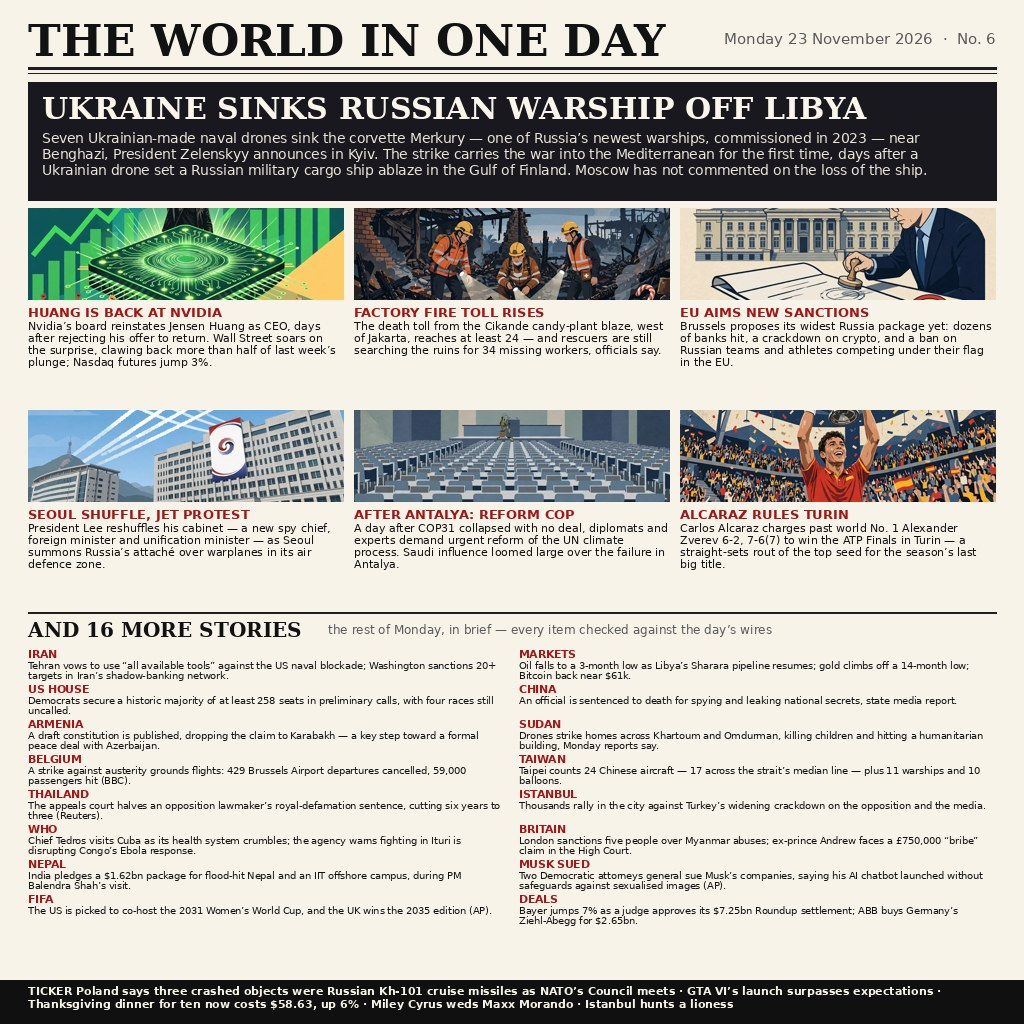
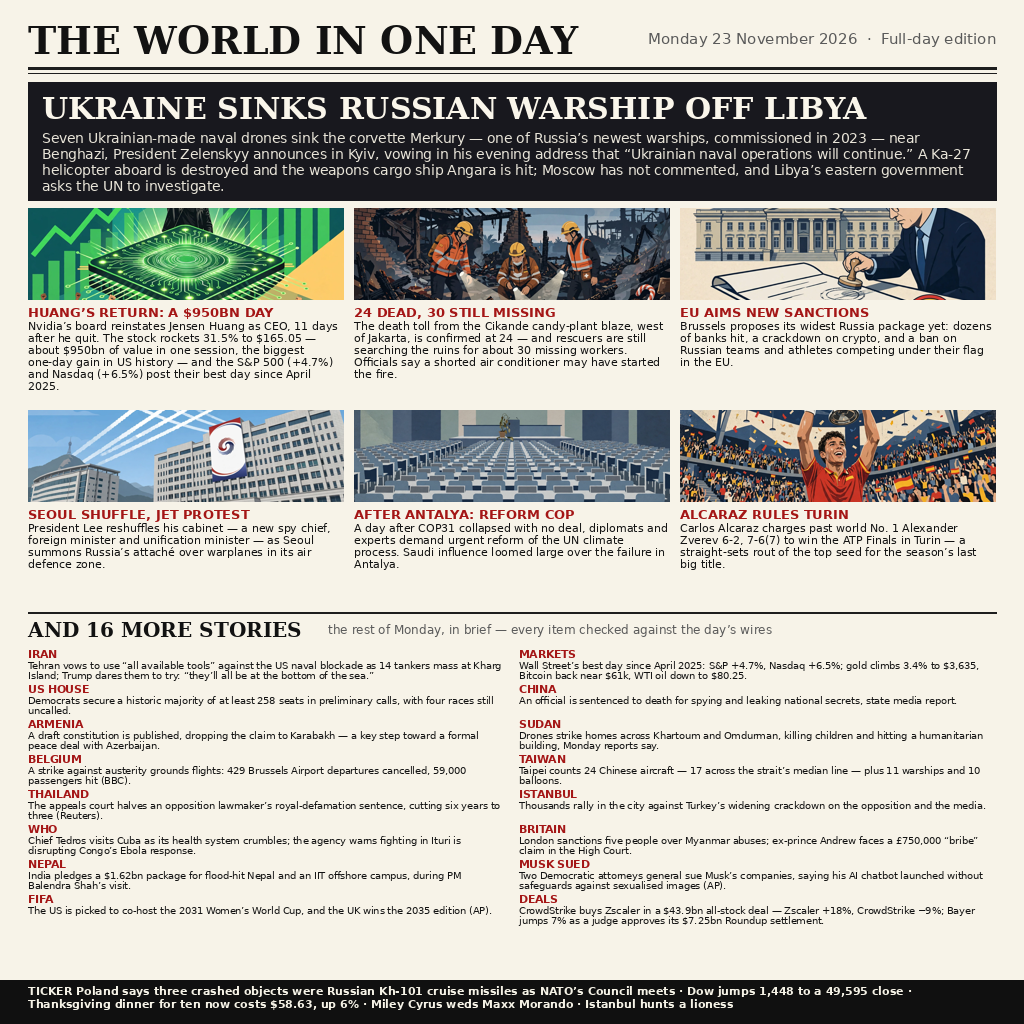
Full-day edition v2: market closes, evening Merkury updates, corrected factory toll

diff --git a/main.ts b/main.ts
@@ -1,15 +1,20 @@
 // "The World in One Day" — my entry for make.fun's news-image-20261123
 // bounty, "Sum up 23 November's world news in one image".
 //
-// The poster shipped next to this file (entry.png — JPEG bytes under a
-// .png name; the gate reads magic bytes, not names) compresses Monday
-// 23 November 2026 into one 1024x1024 front page of 28 stories: a lead on
-// Ukraine's naval drones sinking the Russian corvette Merkury off Libya,
-// six illustrated cards (Nvidia's board reinstating Jensen Huang, the
-// Cikande factory fire toll reaching 24, the EU's new Russia sanctions,
-// Seoul's cabinet reshuffle, the COP31 reform fallout, Alcaraz's ATP
-// Finals title), sixteen one-line briefs and a five-item ticker. The
-// count follows the series' verified sweet spot: the day before, a
+// The poster shipped next to this file (entry.png — PNG bytes, 1024x1024)
+// compresses Monday 23 November 2026 into one 1024x1024 front page of 28
+// stories: a lead on Ukraine's naval drones sinking the Russian corvette
+// Merkury off Libya, with Zelenskyy's evening vow that naval operations
+// will continue, the Ka-27 destroyed aboard and the Angara hit; six
+// illustrated cards (Nvidia's board reinstating Jensen Huang and the
+// record +31.5% close to $165.05, ~$950bn added in one session; the
+// Cikande factory fire toll confirmed at 24 with about 30 still missing;
+// the EU's new Russia sanctions; Seoul's cabinet reshuffle; the COP31
+// reform fallout; Alcaraz's ATP Finals title), sixteen one-line briefs
+// and a five-item ticker. This is the full-day edition (v2): every Monday
+// item re-checked against the late wires, with the market closes, the
+// 14-tanker Kharg Island standoff and the CrowdStrike–Zscaler deal added.
+// The count follows the series' verified sweet spot: the day before, a
 // 27-story edition outscored a denser 33-story one.
 //
 // All this program does is copy the poster into the output directory,
@@ -83,11 +88,15 @@ writeFileSync(target, poster);
 
 // Read the written file back and compare it with the shipped poster:
 // a short or corrupted write must fail loudly here rather than hand the
-// grader a different image from the one that was checked above.
+// grader a different image from the one that was checked above. Three
+// sample points (start, middle, end) catch truncation and mid-file
+// corruption that a length check alone would miss.
 const written = readFileSync(target);
+const mid = Math.floor(poster.length / 2);
 if (
   written.length !== poster.length ||
   written[0] !== poster[0] ||
+  written[mid] !== poster[mid] ||
   written[written.length - 1] !== poster[poster.length - 1]
 ) {
   refuse(`write verification failed for ${target}`);

diff --git a/README.md b/README.md
@@ -4,7 +4,7 @@
 [![rank](https://make.fun/badge/news-image-20261123/lkapi0819-cli/news-image-20261123/rank.svg)](https://make.fun/bounty/news-image-20261123/leaderboard?utm_source=github&utm_medium=readme&utm_campaign=news-image-20261123)
 [![reward](https://make.fun/badge/news-image-20261123/lkapi0819-cli/news-image-20261123/reward.svg)](https://make.fun/bounty/news-image-20261123?utm_source=github&utm_medium=readme&utm_campaign=news-image-20261123)
 
-"The World in One Day" — a high-density front-page poster summing up Monday 23 November 2026 in one 1024×1024 image with 28 stories: Ukraine sinking Russia's corvette Merkury off Benghazi with seven naval drones (the war's first Mediterranean strike, announced by Zelenskyy on Monday), Nvidia's board reinstating Jensen Huang as CEO and Wall Street clawing back more than half of last week's plunge, the Cikande candy-factory fire toll rising to at least 24 dead with 34 still missing, the EU's widest proposed Russia sanctions package yet (dozens of banks, crypto, a flag ban for Russian athletes), President Lee's cabinet reshuffle in Seoul alongside a protest over Russian warplanes in Korea's air defence zone, the reform demands a day after COP31's collapse in Antalya, and Carlos Alcaraz beating world No. 1 Alexander Zverev 6-2, 7-6(7) for the ATP Finals title — plus 16 more briefs (Iran's blockade vow and the US shadow-banking sanctions, the Democrats' 258-seat House majority, Armenia's draft constitution, Belgium's strike-grounded flights, the WHO chief in Cuba, India's $1.62bn Nepal package, FIFA's 2031/2035 Women's World Cup hosts, oil's three-month low and Bitcoin's rebound, China's death sentence for a spying official, Sudan's drone strikes, Taiwan's count of Chinese aircraft, Istanbul's rally and escaped lioness, the Musk chatbot lawsuits, and the Bayer and ABB deals) and a five-item ticker. The poster was composed from six AI-illustrated panels with a Python/Pillow layout script; `main.ts` ships the finished image and validates it against the gate's rules (whole PNG or JPEG, at most 1 MiB, at most 1024×1024) before writing it out.
+"The World in One Day" — a high-density front-page poster summing up Monday 23 November 2026 in one 1024×1024 image with 28 stories: Ukraine sinking Russia's corvette Merkury off Benghazi with seven naval drones (the war's first Mediterranean strike, announced by Zelenskyy on Monday, who vowed in his evening address that naval operations will continue; a Ka-27 helicopter destroyed aboard, the weapons cargo ship Angara hit, Moscow silent), Nvidia's board reinstating Jensen Huang as CEO and the stock rocketing 31.5% to $165.05 — about $950bn of value in a single session, the biggest one-day gain in US history, with the S&P 500 (+4.7%) and Nasdaq (+6.5%) posting their best day since April 2025 — the Cikande candy-factory fire toll confirmed at 24 dead with about 30 still missing, the EU's widest proposed Russia sanctions package yet (dozens of banks, crypto, a flag ban for Russian athletes), President Lee's cabinet reshuffle in Seoul alongside a protest over Russian warplanes in Korea's air defence zone, the reform demands a day after COP31's collapse in Antalya, and Carlos Alcaraz beating world No. 1 Alexander Zverev 6-2, 7-6(7) for the ATP Finals title — plus 16 more briefs (Iran massing 14 tankers at Kharg Island to test the US blockade, the Democrats' 258-seat House majority, Armenia's draft constitution, Belgium's strike-grounded flights, the WHO chief in Cuba, India's $1.62bn Nepal package, FIFA's 2031/2035 Women's World Cup hosts, the market closes, China's death sentence for a spying official, Sudan's drone strikes, Taiwan's count of Chinese aircraft, Istanbul's rally and escaped lioness, the Musk chatbot lawsuits, and the CrowdStrike–Zscaler deal) and a five-item ticker led by the Dow's 1,448-point jump to 49,595. This is the full-day edition (v2): every item re-checked against Monday's late wires, with the market closes and the evening developments added at the verified 28-story sweet spot. The poster was composed from six AI-illustrated panels with a Python/Pillow layout script; `main.ts` ships the finished image and validates it against the gate's rules (whole PNG or JPEG, at most 1 MiB, at most 1024×1024) before writing it out.
 
 ## Run it
 
@@ -14,7 +14,7 @@ mkdir -p out && MAKEFUN_OUTPUT_DIR=out node main.ts
 
 The program runs offline with the Node 22 standard library only, runs twice in grading, and must write identical bytes both times — it does, because it copies the shipped poster untouched after checking its magic bytes, its size and (for JPEG) its pixel dimensions.
 
-Stories are drawn from the full day's reporting of 23 November 2026, cross-checked against the Reuters, AP and AFP wires and same-day reporting: Reuters/AP on the Merkury sinking off Benghazi and the Dymer and Kryvyi Rih follow-ups, Reuters/AP on the Cikande factory toll, AP/dpa on the European Commission's sanctions proposal, Reuters on President Lee's reshuffle and the Russian ADIZ incursion, the Guardian/Reuters on the COP31 fallout, and Reuters on Alcaraz's Turin title.
+Stories are drawn from the full day's reporting of 23 November 2026, cross-checked against the Reuters, AP and AFP wires and same-day reporting: Reuters/AP on the Merkury sinking off Benghazi and Zelenskyy's evening vow, Reuters/AP on the Cikande factory toll, Reuters and Nvidia's investor-relations close data on the record +31.5% session, AP/dpa on the European Commission's sanctions proposal, Reuters on President Lee's reshuffle and the Russian ADIZ incursion, the Guardian/Reuters on the COP31 fallout, Reuters on the 14 tankers massed at Kharg Island, and Reuters on Alcaraz's Turin title. Tuesday's updates (such as the factory toll rising to 26 on 24 November) were deliberately left out: this poster covers Monday 23 November only.
 
 ---
 
